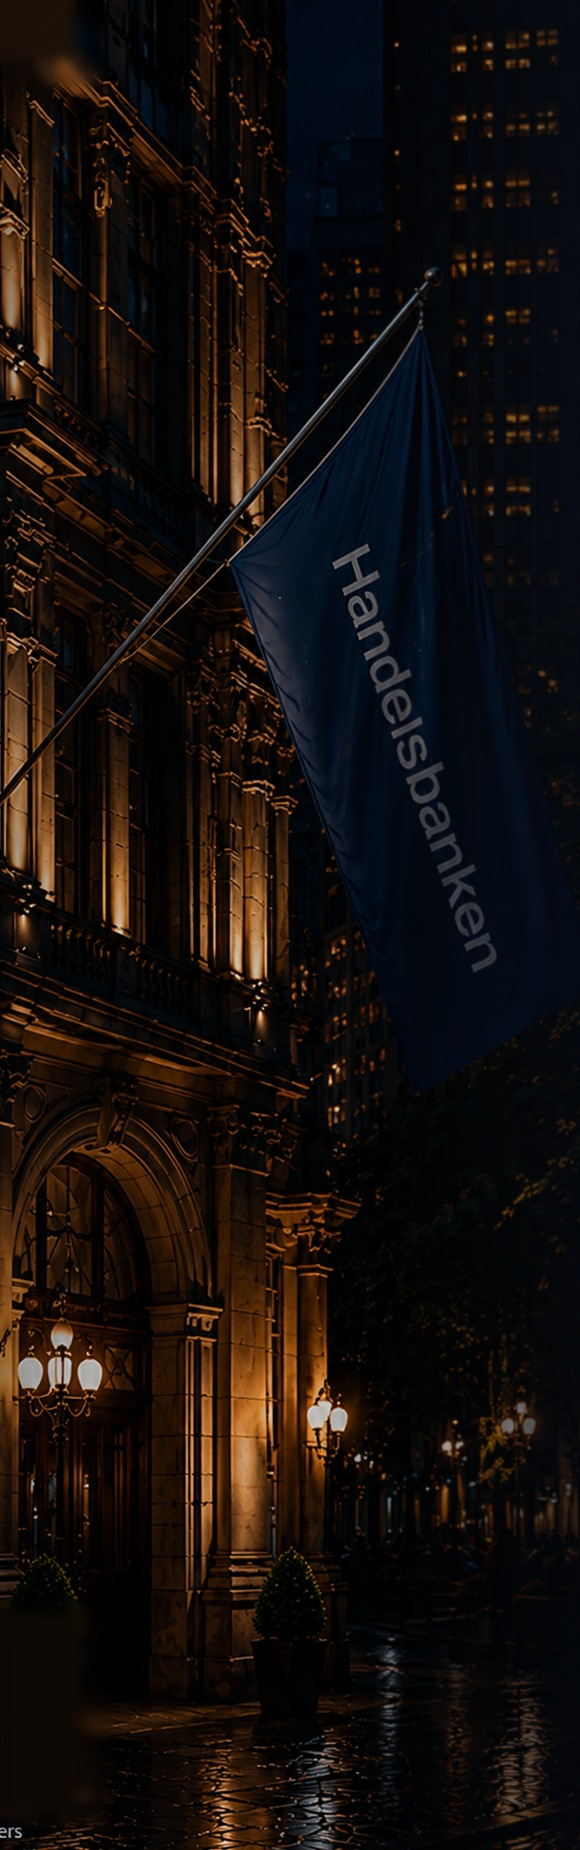
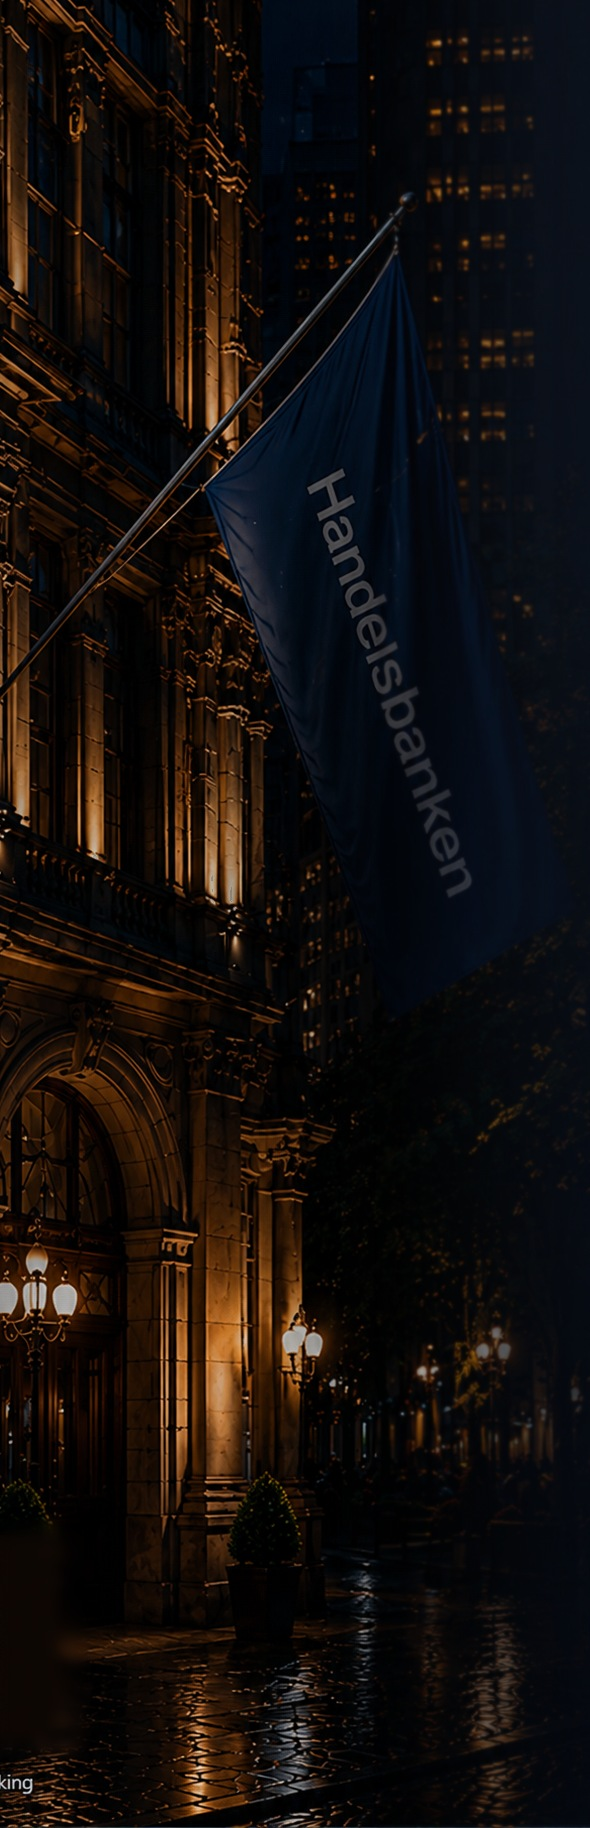
Flagga

diff --git a/src/components/lightDashboard/LightCommandCenter.tsx b/src/components/lightDashboard/LightCommandCenter.tsx
@@ -271,31 +271,16 @@ const NAV_ITEMS = [
 ] as const
 
 /**
- * Left sidebar: the Financial-District photograph full-bleed, with the logo,
- * navigation and active state sitting on top of it. The image keeps its OWN
- * tones — no filters, blur or artistic gradients — under only a light ~12%
- * veil for legibility, with a soft darkening behind the nav band so the labels
- * hold, and the right edge seaming into the main surface. Swap the photo by
- * replacing the file at `WALL_STREET_PHOTO_URL` (a dark portrait crop reads
- * best); adjust `bg-[position]` afterwards to frame the flag/lit edges.
+ * Left navigation column — logo, nav items, active state and profile. It is a
+ * transparent layer that sits on top of the hero photograph, which is rendered
+ * behind it at the page root (see the hero block in the component's return) so
+ * the image can extend past the nav and dissolve into the dashboard.
  */
 function Sidebar() {
   return (
-    <aside className="relative isolate hidden w-[306px] shrink-0 overflow-hidden md:flex">
-      {/* Full-bleed photograph — the image's own grade, untouched. */}
-      <div
-        className="absolute inset-0 bg-cover bg-center"
-        style={{ backgroundImage: `url(${WALL_STREET_PHOTO_URL})` }}
-      />
-      {/* Minimal readability veil (~12%). */}
-      <div className="absolute inset-0 bg-black/[0.12]" />
-      {/* Soft darkening behind the nav band only — just enough to hold the labels. */}
-      <div className="absolute inset-y-0 left-0 w-[160px] bg-gradient-to-r from-[rgba(3,7,14,0.62)] to-transparent" />
-      {/* Seam into the main surface. */}
-      <div className="absolute inset-y-0 right-0 w-16 bg-gradient-to-l from-[#020711] to-transparent" />
-
-      {/* UI on top. */}
-      <div className="relative z-10 flex w-[112px] flex-col items-center py-5">
+    <aside className="relative z-10 hidden w-[306px] shrink-0 md:flex">
+      {/* Nav sits on top of the hero image, which is rendered behind at the page root. */}
+      <div className="flex w-[112px] flex-col items-center py-5">
         <Link
           to="/"
           aria-label="Översikt"
@@ -555,9 +540,29 @@ export function LightCommandCenter() {
           'radial-gradient(circle at 60% 30%, rgba(14,88,126,0.18) 0%, rgba(4,19,32,0.10) 34%, rgba(2,7,17,0) 64%), linear-gradient(180deg, #020711 0%, #03101A 100%)',
       }}
     >
+      {/* Hero background: the Financial-District photograph anchored left at full
+          height, extended toward the content and dissolved into the dashboard
+          over a long, progressively darker gradient — one continuous cinematic
+          scene behind the UI rather than a narrow sidebar strip. */}
+      <div
+        aria-hidden="true"
+        className="pointer-events-none absolute inset-y-0 left-0 z-0 w-[46vw] max-w-[760px] overflow-hidden"
+      >
+        <div
+          className="absolute inset-0 bg-[length:auto_100%] bg-[position:-46px_center] bg-no-repeat"
+          style={{ backgroundImage: `url(${WALL_STREET_PHOTO_URL})` }}
+        />
+        <div className="absolute inset-0 bg-black/[0.12]" />
+        {/* Darker behind the nav band so the labels stay effortless to read. */}
+        <div className="absolute inset-y-0 left-0 w-[160px] bg-gradient-to-r from-[rgba(3,7,14,0.62)] to-transparent" />
+        {/* Long, gentle dissolve into the dashboard — starts later and eases in so
+            the transition is almost imperceptible. */}
+        <div className="absolute inset-0 bg-gradient-to-r from-transparent from-[47%] via-[rgba(4,10,18,0.55)] via-[70%] to-[#020711]" />
+      </div>
+
       <Sidebar />
 
-      <main className="min-w-0 flex-1 overflow-y-auto">
+      <main className="relative z-10 min-w-0 flex-1 overflow-y-auto">
         <div className="mx-auto flex max-w-[1600px] flex-col gap-6 px-8 pt-6 pb-16">
           <Header />
 
